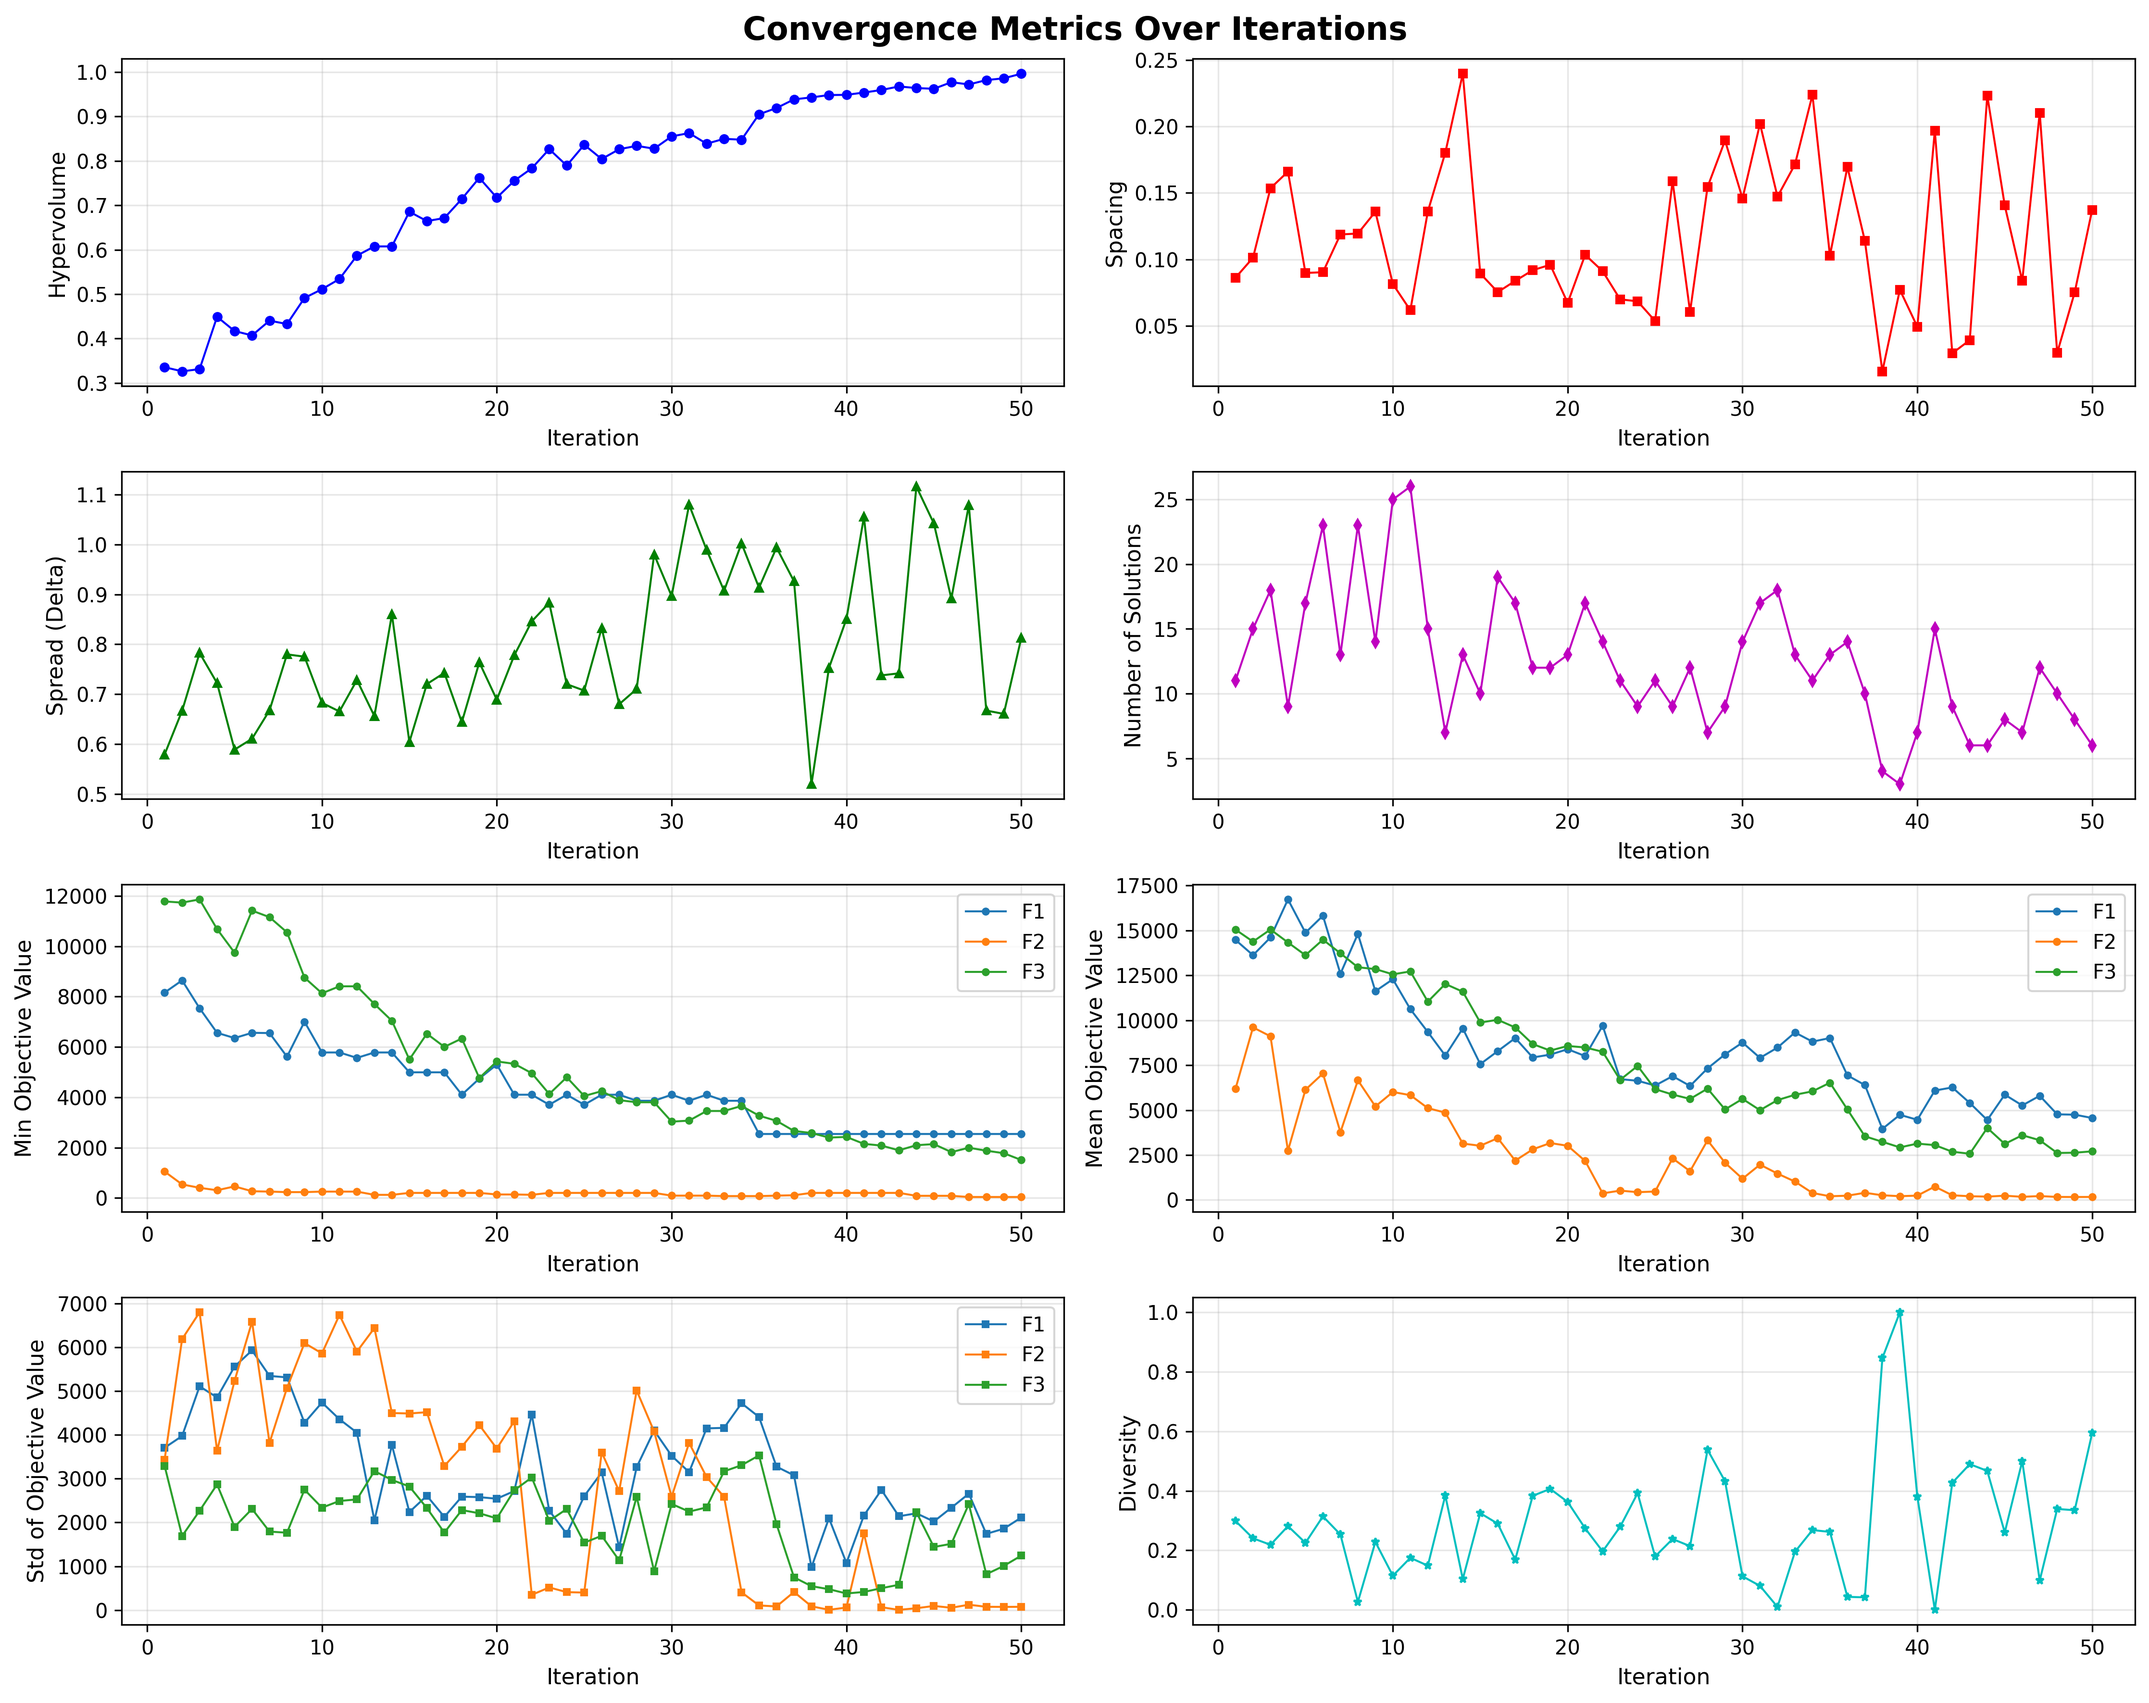
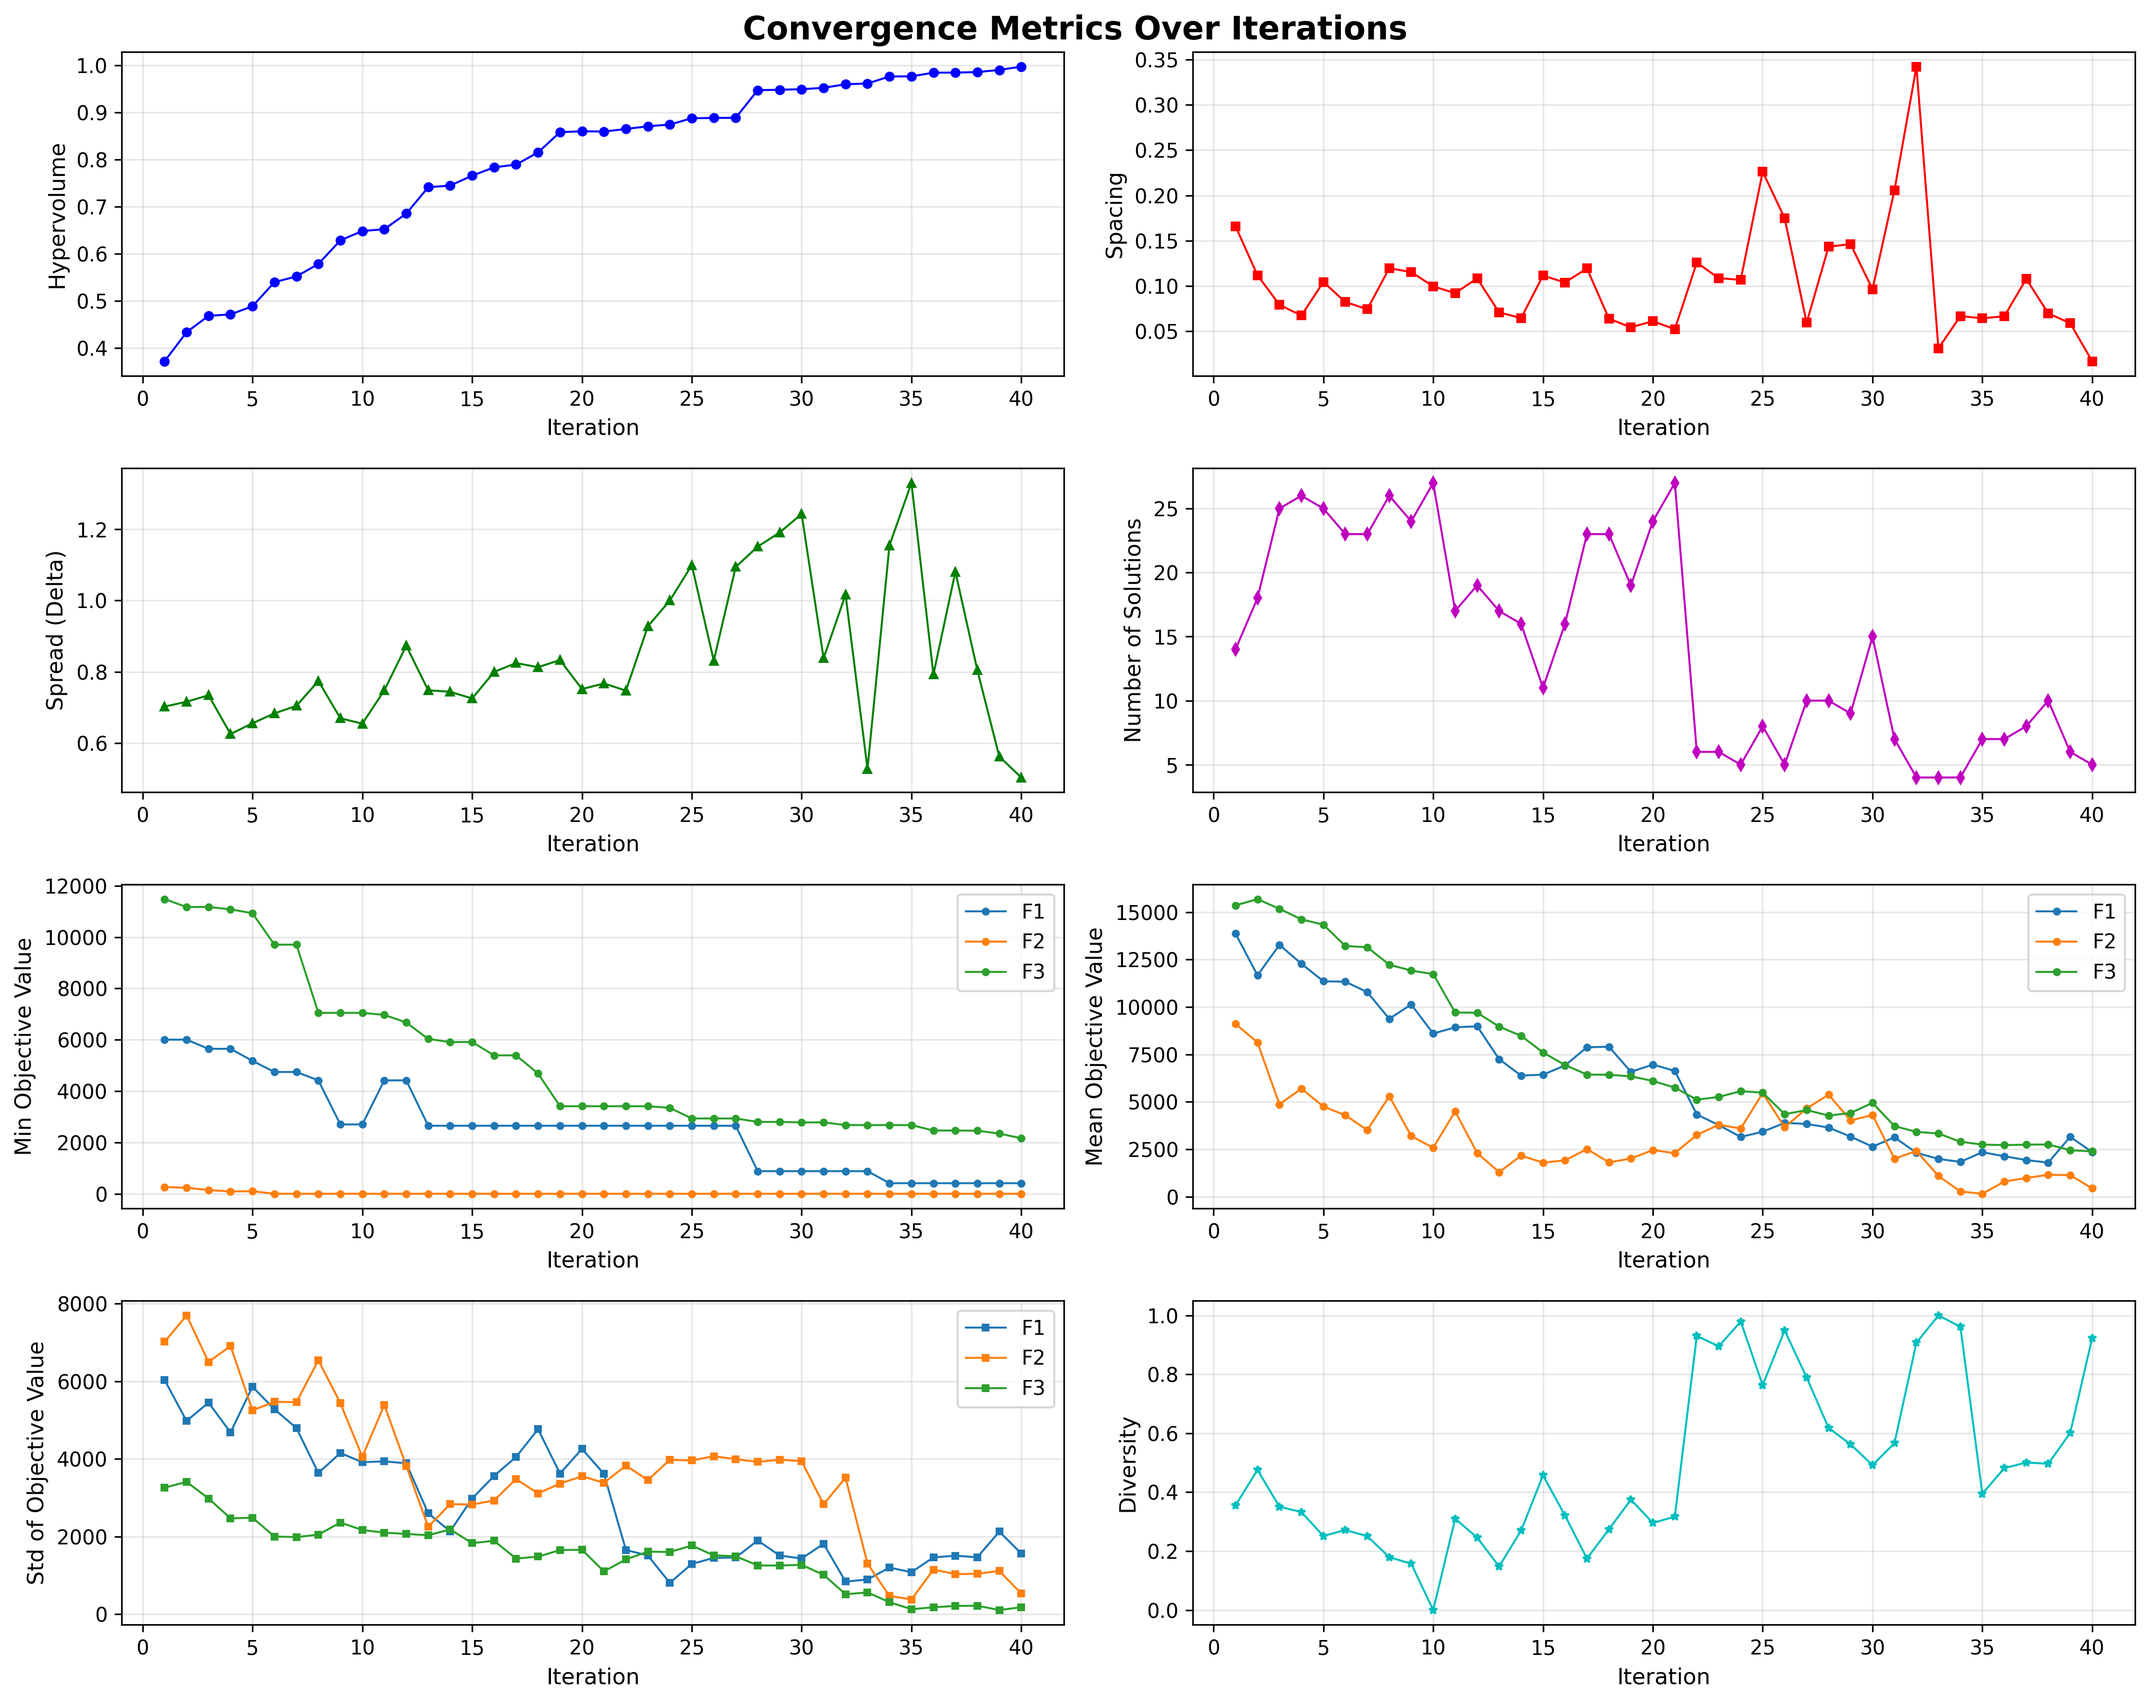
NSGA-II: removing calculate_pairwase_tradeoff method abd adding local_tradeoff_rate_knn method

diff --git a/Python_Codes/NSGA_II_HSC/tradeoff_analysis.py b/Python_Codes/NSGA_II_HSC/tradeoff_analysis.py
@@ -28,65 +28,46 @@ class TradeoffAnalysis:
         """نرمالسازی توابع هدف به بازه [0, 1]"""
         scaler = MinMaxScaler()
         return scaler.fit_transform(self.pareto_front)
-    
-    # def calculate_pairwise_tradeoff(self, obj1_idx=0, obj2_idx=1):
-    #     """
-    #     محاسبه نرخ trade-off بین دو تابع هدف
-        
-    #     Returns:
-    #     --------
-    #     tradeoff_rates: آرایهای از نرخهای trade-off بین نقاط متوالی
-    #     """
-    #     # مرتبسازی بر اساس تابع هدف اول
-    #     sorted_indices = np.argsort(self.pareto_front[:, obj1_idx])
-    #     sorted_front = self.pareto_front[sorted_indices]
-        
-    #     tradeoff_rates = []
-    #     for i in range(len(sorted_front) - 1):
-    #         delta_f1 = sorted_front[i+1, obj1_idx] - sorted_front[i, obj1_idx]
-    #         delta_f2 = sorted_front[i+1, obj2_idx] - sorted_front[i, obj2_idx]
-            
-    #         if delta_f1 != 0:
-    #             rate = abs(delta_f2 / delta_f1)
-    #             tradeoff_rates.append(rate)
-    #         else:
-    #             tradeoff_rates.append(np.inf)
-                
-    #     return np.array(tradeoff_rates), sorted_front
-    def calculate_pairwise_tradeoff(self, i, j):
-        """
-        محاسبه نرخ مبادله (Trade-off Rate) جفتی بین اهداف i و j.
-        Trade-off Rate = ΔFj / ΔFi
-        """
-        # 1. مرتبسازی بر اساس هدف i
-        # np.lexsort بر اساس آخرین ستون (i) مرتب میکند
-        sorted_indices = np.lexsort((self.pareto_front[:, j], self.pareto_front[:, i]))
-        sorted_front = self.pareto_front[sorted_indices]
-        
-        # 2. محاسبه دلتاها
-        delta_Fi = np.diff(sorted_front[:, i])
-        delta_Fj = np.diff(sorted_front[:, j])
-        
-        # 3. محاسبه نرخ مبادله
-        # جلوگیری از تقسیم بر صفر (زمانی که دلتا Fi صفر باشد)
-        # در این حالت نرخ مبادله بینهایت است.
-        with np.errstate(divide='ignore', invalid='ignore'):
-            # اطمینان از اینکه فقط برای راهحلهایی که F_i در جهت مطلوب تغییر کرده، نرخ را محاسبه کنیم.
-            # برای حداقلسازی، دلتای منفی در F_i و دلتای مثبت در F_j انتظار میرود (Trade-off)
-            rates = np.abs(delta_Fj / delta_Fi)
-            rates[delta_Fi == 0] = np.inf
-            # اگر دو هدف در یک جهت تغییر کنند (یعنی همسو باشند)، نرخ را صفر یا نادیده میگیریم
-            # اگرچه در تحلیل مبادله فقط نقاط مجاور در جبهه پرتو را بررسی میکنیم.
 
-        return rates, sorted_front[:-1] # rates یک عنصر کمتر از sorted_front دارد
-    
+    def local_tradeoff_rate_knn(self, i, j, k, n_neighbors=6, bandwidth=None):
+        """
+        خروجی: نرخ مبادلهی شرطی dFj/dFi | Fk (بهصورت موضعی برای هر نقطه)
+        """
+        from sklearn.neighbors import NearestNeighbors
+        import numpy as np
+
+        X = self.pareto_front[:, [i, k]].astype(float)
+        y = self.pareto_front[:, j].astype(float)
+
+        # نرمالسازی ستونی (اختیاری ولی توصیه میشود)
+        X = (X - X.min(axis=0)) / (X.max(axis=0) - X.min(axis=0) + 1e-12)
+        y = (y - y.min()) / (y.max() - y.min() + 1e-12)
+
+        n_max_neighbors = len(self.pareto_front) - 1
+        k_to_use = min(n_neighbors, n_max_neighbors)
+        nbrs = NearestNeighbors(n_neighbors = k_to_use).fit(np.c_[X, y])
+        idxs = nbrs.kneighbors(n_neighbors = k_to_use, return_distance=False)
+
+        betas = np.full(len(self.pareto_front), np.nan)
+        for t, neigh in enumerate(idxs):
+            Xt = np.c_[np.ones(len(neigh)), X[neigh]]   # [1, Fi, Fk]
+            yt = y[neigh]
+            # وزندهی اختیاری بر اساس فاصله در فضای (Fi,Fj,Fk)
+            # اینجا ساده: OLS
+            try:
+                beta = np.linalg.lstsq(Xt, yt, rcond=None)[0]  # [b0, b_i, b_k]
+                betas[t] = beta[1]  # dFj/dFi | Fk
+            except np.linalg.LinAlgError:
+                pass
+        return betas  # آرایهای از نرخهای موضعی
+
     def calculate_global_tradeoff_metrics(self):
         """محاسبه معیارهای کلی trade-off برای تمام جفت توابع هدف"""
         metrics = {}
         
         for i in range(self.n_objectives):
             for j in range(i+1, self.n_objectives):
-                rates, _ = self.calculate_pairwise_tradeoff(i, j)
+                rates = self.local_tradeoff_rate_knn(i, j, k=(3 - i - j))
                 rates_finite = rates[rates != np.inf]
                 
                 if len(rates_finite) > 0:
@@ -112,8 +93,7 @@ class TradeoffAnalysis:
         
         for i in range(self.n_objectives):
             for j in range(i+1, self.n_objectives):
-                rates, sorted_front = self.calculate_pairwise_tradeoff(i, j)
-                
+                rates = self.local_tradeoff_rate_knn(i, j, k=(3 - i - j))
                 if len(rates) > 2:
                     mean_rate = np.mean(rates[rates != np.inf])
                     std_rate = np.std(rates[rates != np.inf])
@@ -124,7 +104,7 @@ class TradeoffAnalysis:
                                 'solution_idx': idx,
                                 'objectives': (i, j),
                                 'tradeoff_rate': rate,
-                                'point': sorted_front[idx]
+                                # 'point': sorted_front[idx]
                             })
                             
         return knee_points
@@ -197,7 +177,7 @@ class TradeoffAnalysis:
         labels = []
         
         for i, j in obj_pairs:
-            rates, _ = self.calculate_pairwise_tradeoff(i, j)
+            rates = self.local_tradeoff_rate_knn(i, j, k=(3 - i - j))
             finite_rates = rates[rates != np.inf]
             all_rates.append(finite_rates)
             labels.append(f'ΔF{j+1}/ΔF{i+1}')
@@ -295,26 +275,3 @@ def integrate_tradeoff_analysis(main_instance):
     tradeoff_analyzer.print_tradeoff_summary()
     
     return tradeoff_analyzer
-
-
-# مثال استفاده مستقل (برای تست)
-if __name__ == "__main__":
-    # ایجاد دادههای نمونه Pareto Front
-    np.random.seed(42)
-    
-    # شبیهسازی Pareto Front برای 3 تابع هدف
-    n_solutions = 50
-    
-    # ایجاد نقاط Pareto (با trade-off منفی بین توابع)
-    f1 = np.sort(np.random.uniform(100, 1000, n_solutions))
-    f2 = 2000 - 1.5 * f1 + np.random.normal(0, 50, n_solutions)
-    f3 = 0.1 + 0.0008 * f1 + np.random.normal(0, 0.01, n_solutions)
-    
-    pareto_front = np.column_stack([f1, f2, f3])
-    
-    # تحلیل trade-off
-    analyzer = TradeoffAnalysis(pareto_front)
-    
-    # نمایش نتایج
-    analyzer.plot_tradeoff_analysis()
-    analyzer.print_tradeoff_summary()

diff --git a/Python_Codes/NSGA_II_HSC/convergence_metrics.py b/Python_Codes/NSGA_II_HSC/convergence_metrics.py
@@ -264,7 +264,7 @@ class ConvergenceMetrics:
         refrence_point = np.max(max_cost, axis=0) * 1.1
         hypervolume_history = self.hypervolume(pareto_fronts_list, refrence_point)
         spacing_history, spread_history, diversity_history = [], [], []
-        for pareto_pop in pareto_fronts_list:
+        for pareto_pop in pareto_pop_list:
             """
             بهروزرسانی تمام شاخصها در هر تکرار
             
